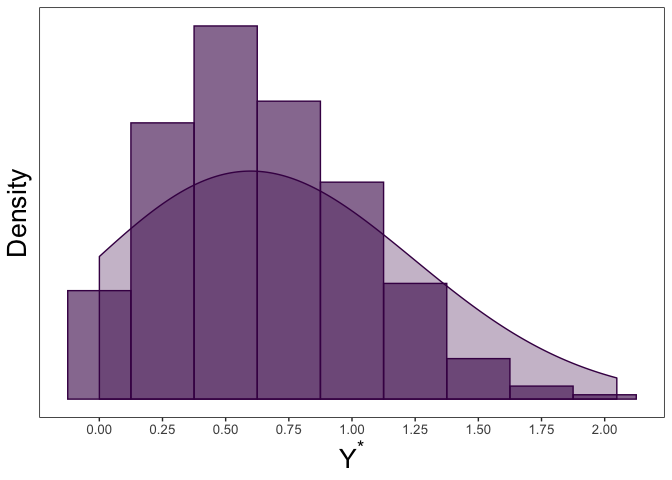
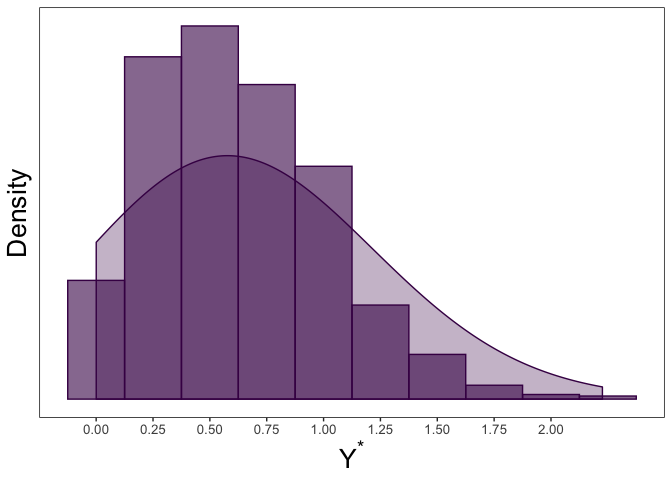
removing latex equations from README since they are not rendered

diff --git a/README.md b/README.md
@@ -19,8 +19,8 @@ with:
 install.packages("devtools")
 devtools::install_github("williazo/tcensReg")
 #to install the package with the accompaining vignette use the command below
-devtools::install_github("williazo/tcensReg", build_opts = c("--no-resave-data", "--no-manual"),
-                         build_vignettes = TRUE)
+devtools::install_github("williazo/tcensReg", build_opts=c("--no-resave-data", "--no-manual"),
+                         build_vignettes=TRUE)
 ```
 
 # Example 1: Single Population
@@ -33,13 +33,10 @@ implement the functions within the package, I will demonstrate a simple
 simulation example.
 
 Assume that we have observations from an underlying truncated normal
-distribution
-
-\(Y^{*}\sim\text{TN}(\mu, \sigma^{2}, a)\),
-
-where \(a\) denotes the value of the left-truncation. In our case we
-will assume a zero-truncated model by setting
-\(a=0\).
+distribution. In our case we will assume a zero-truncated model by
+setting a=0. We generate this truncated normal data below and refer to
+it as
+`ystar`.
 
 ``` r
 library(msm) #we will use this package to generate random values from the truncated normal distribution
@@ -47,31 +44,26 @@ mu <- 0.5
 sigma <- 0.5
 a <- 0
 
-y_star <- msm::rtnorm(n = 1000, mean = mu, sd = sigma, lower = a)
+y_star <- msm::rtnorm(n=1000, mean=mu, sd=sigma, lower=a)
 range(y_star) #note that the lowerbound will always be non-negative
 ```
 
-    ## [1] 0.0002495968 2.0480464379
+    ## [1] 0.0002510439 2.2261729774
 
 Next, we can imagine a scenario where we have an imprecise measurement
-of \(Y^{*}\) leading to censoring. In our case we assume that values
-below \(\nu\) are censored such that \(a<\nu\). This creates the random
-variable \(Y\),
-where
+of `ystar` leading to censoring. In our case we assume that values below
+a limit of detection, `nu`, are censored. This creates a random variable
+`y`.
 
-\(Y_{i}=\nu\big(1_{\{Y_{i}^{*}\le\nu\}}\big)+Y_{i}^{*}\big(1-1_{\{Y_{i}^{*}\le\nu\}}\big)\)
-and \(1_{\{Y_{i}^{*}\le\nu\}}=1\) is \(Y_{i}^{*}\le\nu\) and 0
-otherwise.
-
-In the example below we set \(\nu=0.25\).
+In the example below we set our limit of detection as `nu`=0.25.
 
 ``` r
 nu <- 0.25
-y <- ifelse(y_star<=nu, nu, y_star)
-sum(y==nu)/length(y) #calculating the number of censored observations
+y <- ifelse(y_star <= nu, nu, y_star)
+sum(y == nu)/length(y) #calculating the number of censored observations
 ```
 
-    ## [1] 0.164
+    ## [1] 0.187
 
 ``` r
 dt <- data.frame(y_star, y) #collecting the uncensored and censored data together
@@ -84,32 +76,32 @@ which shows the zero-truncation.
 We can then compare this to the censored observations below
 ![](README_files/figure-gfm/unnamed-chunk-5-1.png)<!-- -->
 
-We can then estimate \(\mu\) and \(\sigma\) using our observed \(Y\)
-values with the `tcensReg` package as shown below.
+We can then estimate the mean, `mu`, and standard deviation, `sigma`,
+using `y` with the `tcensReg` package as shown below.
 
 ``` r
 library(tcensReg)  #loading the package into the current environment
-tcensReg(y ~ 1, data = dt, a = 0, v = 0.25)
+tcensReg(y ~ 1, data=dt, a=0, v=0.25)
 ```
 
     ## $theta
     ##               Estimate
-    ## (Intercept)  0.5309578
-    ## log_sigma   -0.7528142
+    ## (Intercept)  0.4733706
+    ## log_sigma   -0.6936526
     ## 
     ## $iterations
     ## [1] 5
     ## 
     ## $initial_ll
-    ## [1] -630.655
+    ## [1] -667.0479
     ## 
     ## $final_ll
-    ## [1] -618.927
+    ## [1] -651.3416
     ## 
     ## $var_cov
     ##               (Intercept)     log_sigma
-    ## (Intercept)  0.0006133718 -0.0006291891
-    ## log_sigma   -0.0006291891  0.0014192137
+    ## (Intercept)  0.0009230291 -0.0009247406
+    ## log_sigma   -0.0009247406  0.0016644569
 
 Note that the this will return parameter estimates, variance-covariance
 matrix, the number of iterations until convergence, and the
@@ -119,9 +111,9 @@ Comparing the values to the truth we see that the estimates are
 unbiased.
 
 ``` r
-output <- tcensReg(y ~ 1, data = dt, a = a, v = nu)
-lm_output <- lm(y ~ 1, data = dt) #running OLS model for comparison
-cens_output <- tcensReg(y ~ 1, data = dt, v = nu) #censored only model, i.e., Tobit model
+output <- tcensReg(y ~ 1, data=dt, a=a, v=nu)
+lm_output <- lm(y ~ 1, data=dt) #running OLS model for comparison
+cens_output <- tcensReg(y ~ 1, data=dt, v=nu) #censored only model, i.e., Tobit model
 ```
 
     ## Warning: `a` is not specified indicating no truncation
@@ -141,15 +133,14 @@ row.names(results_df) <- c("Truth", "tcensReg", "Normal MLE", "Tobit")
 results_df$mu_bias <- abs(results_df$mu - mu)
 results_df$sigma_bias <- abs(results_df$sigma - sigma)
 
-knitr::kable(results_df, format = "markdown", digits = 4)
+knitr::kable(results_df, format="markdown", digits=4)
 ```
 
 |            |     mu |  sigma | mu\_bias | sigma\_bias |
 | :--------- | -----: | -----: | -------: | ----------: |
 | Truth      | 0.5000 | 0.5000 |   0.0000 |      0.0000 |
-| tcensReg   | 0.5310 | 0.4710 |   0.0310 |      0.0290 |
-| Normal MLE | 0.6643 | 0.3603 |   0.1643 |      0.1397 |
-| Tobit      | 0.6271 | 0.4166 |   0.1271 |      0.0834 |
+| tcensReg   | 0.4734 | 0.4997 |   0.0266 |      0.0003 |
+| Normal MLE | 0.6491 | 0.3645 |   0.1491 |      0.1355 |
+| Tobit      | 0.6038 | 0.4307 |   0.1038 |      0.0693 |
 
-Other methods result in significant bias for both \(\mu\) and
-\(\sigma\).
+Other methods result in significant bias for both `mu` and `sigma`.
